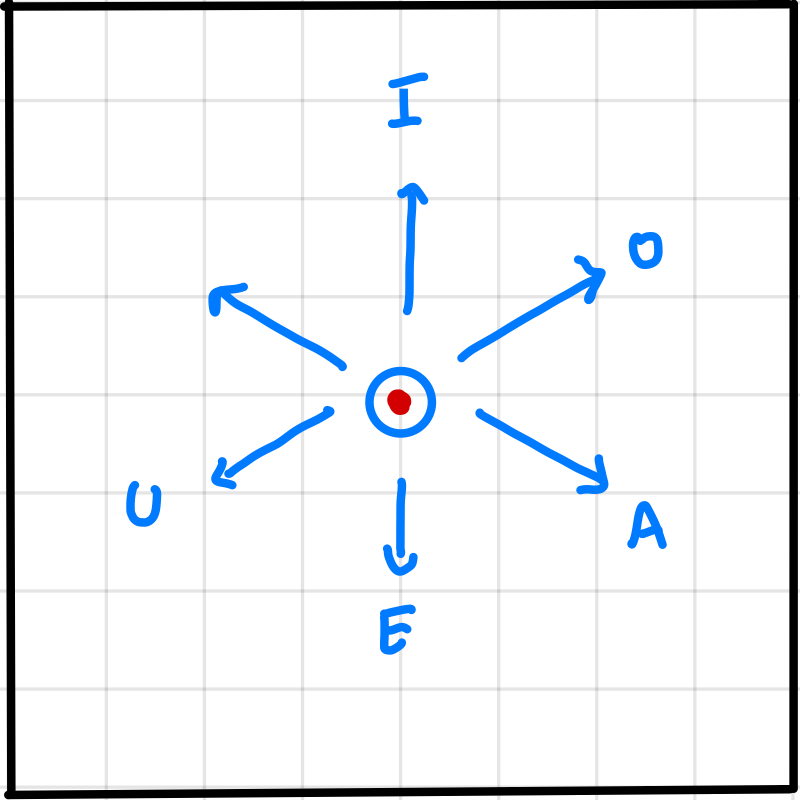
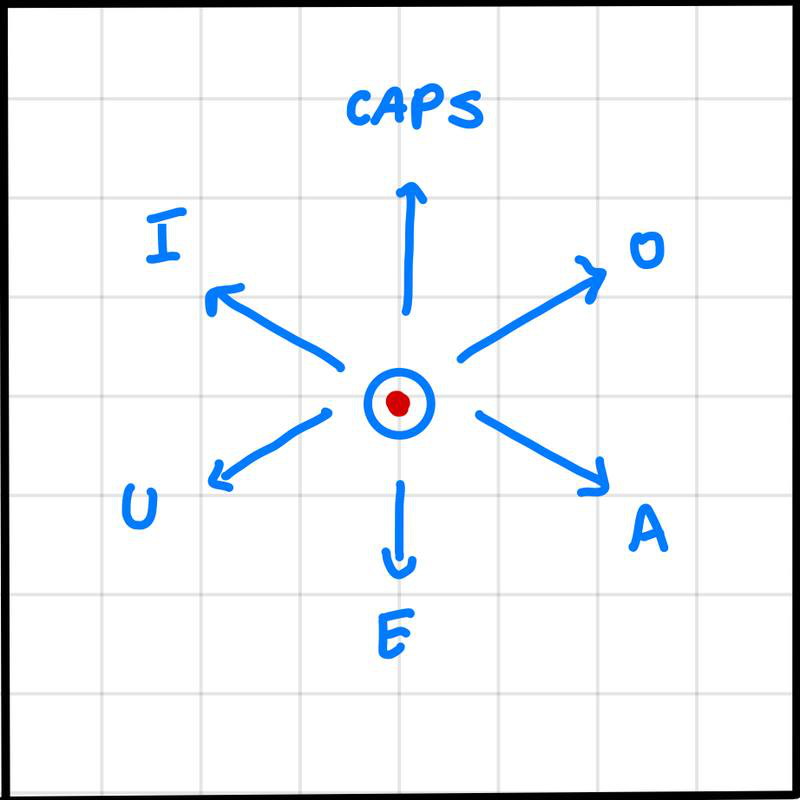
Updated new images, tried to implement changing images to capital, meh

diff --git a/main.py b/main.py
@@ -115,7 +115,7 @@ def main():
     window.finalize()
     graph = window["-GRAPH-"]
 
-    graph.DrawImage(filename="state0.PNG", location=(0, graph_size[1]))
+    graph.DrawImage(filename="state0.png", location=(0, graph_size[1]))
 
     # ---===--- Loop taking in user input --- #
     dragging = False
@@ -124,10 +124,12 @@ def main():
     gesture = Gesture()
 
     text_entered = ''
+    tail = '.png'
     cap_state = False
     while True:
         # this block processes the motion
         event, values = window.read()
+        tail = '.PNG' if cap_state else '.png'
         if event is None:
             break
         if event == "-GRAPH-":
@@ -157,7 +159,7 @@ def main():
 
             output_string = gesture.swipeTrigger(output_gesture[0], output_gesture[1])
 
-            state_png_name = "state" + str(gesture.state) + ".PNG"
+            state_png_name = "state" + str(gesture.state) + tail
             graph.DrawImage(filename=state_png_name, location=(0, graph_size[1]))
 
             if output_string is None:
